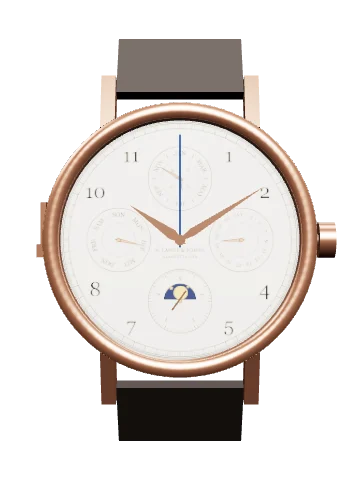
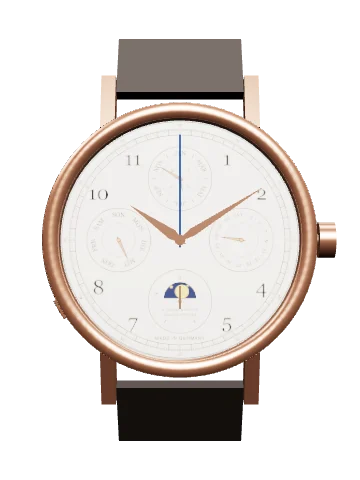
Front checks for the last three Workbench watches: Patek 3974 foot lettering; Gyrotourbillon 3 paired bars and Swiss Made; Lange Grand Complication black figures, minute figures outside the track, name in the lower dial, no running seconds

diff --git a/draw.js b/draw.js
@@ -286,9 +286,11 @@ function markers(w, g, skip) {
       break;
     }
     case 'railway': { // two fine circles with a tick for each minute and each fifth of a second, and upright numerals inside
-      s += C(R0 - 0.25, 0, 0, 't') + C(R0 - 1.25, 0, 0, 't');
-      for (let i = 0; i < 300; i++) s += rad(i * 1.2, R0 - (i % 25 ? (i % 5 ? 0.75 : 1.25) : 1.25), R0 - 0.25, i % 5 ? 'hair' : 't');
-      const sz = R0 * 0.17; for (let h = 1; h <= 12; h++) if (!skip.has(h % 12)) { const p = P(h * 30, R0 - 3.7); s += T(h, p[0], p[1] + sz * 0.35, sz, 'tx nm'); }
+      const k0 = w.dial.railNums ? 1.15 : 0; // room outside the track for the five-minute figures, where a dial carries them
+      s += C(R0 - 0.25 - k0, 0, 0, 't') + C(R0 - 1.25 - k0, 0, 0, 't');
+      for (let i = 0; i < 300; i++) s += rad(i * 1.2, R0 - k0 - (i % 25 ? (i % 5 ? 0.75 : 1.25) : 1.25), R0 - 0.25 - k0, i % 5 ? 'hair' : 't');
+      if (k0) for (let m = 5; m <= 60; m += 5) s += T(m < 10 ? '0' + m : m, 0, 0, 0.78, 'tx rn' + (m % 15 ? '' : ' rq'), `style="font-family:Helvetica,Arial,sans-serif" transform="rotate(${m * 6}) translate(0,${f(-R0 + 0.92)})"`); // the quarters are printed red
+      const sz = R0 * 0.17; for (let h = 1; h <= 12; h++) if (!skip.has(h % 12)) { const p = P(h * 30, R0 - 3.7 - k0 * 0.6); s += T(h, p[0], p[1] + sz * 0.35, sz, 'tx nm'); }
       break;
     }
     case 'roman': {
@@ -352,16 +354,16 @@ function calSub(w, g, pos, role, o = {}) {
     for (let d = 1; d <= 31; d++) { const a = (d - 1) * 360 / 31; s += d % 2 ? lab(d, a, rs * 0.81, rs * 0.17) : (p => C(0.08, p[0], p[1], 'k'))(P(a, rs * 0.81, cx, cy)); }
     s += C(rs * 0.52, cx, cy, 'hair') + hand((now.getDate() - 1) * 360 / 31, rs * 0.68);
   } else if (role === 'moonsec') { // running seconds round the edge, the moon above the centre, and the scale of fifths for the flying seconds
-    for (let i = 0; i < 60; i++) s += rad(i * 6, rs - (i % 5 ? 0.4 : 0.75), rs - 0.12, 't', cx, cy);
-    [5, 1, 2, 3, 4].forEach((n, i) => { s += lab(n, i * 72, rs * 0.74, rs * 0.19); });
-    s += moon(rs * 0.5, cy - rs * 0.06);
+    [5, 1, 2, 3, 4].forEach((n, i) => { s += lab(n, i * 72, rs * 0.8, rs * 0.17); }); // the five jumps of the flying seconds; there is no running seconds track
+    s += moon(rs * 0.5, cy - rs * 0.1);
+    if (w.dial.subSign && !o.redact) w.dial.subSign.forEach((t, i) => { s += T(t.replace(/&/g, '&amp;'), cx, cy + rs * (0.3 + i * 0.16), rs * 0.115, 'tx cal', 'letter-spacing=".04em"'); }); // the maker's name, printed in this dial under the moon
     if (!o.noHands) s += `<g transform="translate(${cx},${cy})"><g data-hand="s" data-bps="${bps(w)}">${L(0, 0.8, 0, -rs * 0.86, 'hd')}</g></g>`;
   } else if (role === 'day24') {
     DAYS.forEach((t, i) => { s += lab(t, i * 360 / 7, rs * 0.79, rs * 0.2); });
     s += C(rs * 0.6, cx, cy, 'hair'); [[12, 0], [18, 90], [24, 180], [6, 270]].forEach(q => { s += lab(q[0], q[1], rs * 0.4, rs * 0.19); });
     s += hand((now.getHours() + now.getMinutes() / 60 - 12) * 15, rs * 0.42, 0.22) + hand(now.getDay() * 360 / 7, rs * 0.72);
   } else if (role === 'monthleap') {
-    MONTHS.forEach((t, i) => { s += i % 2 ? rad(i * 30, rs * 0.72, rs * 0.86, 't', cx, cy) : lab(t, i * 30, rs * 0.79, rs * 0.2); });
+    (w.dial.de ? ['JAN', 'FEB', 'MÄR', 'APR', 'MAI', 'JUN', 'JUL', 'AUG', 'SEP', 'OKT', 'NOV', 'DEZ'] : MONTHS).forEach((t, i) => { s += i % 2 ? rad(i * 30, rs * 0.72, rs * 0.86, 't', cx, cy) : lab(t, i * 30, rs * 0.79, rs * 0.2); });
     s += C(rs * 0.6, cx, cy, 'hair'); [1, 2, 3, 4].forEach(n => { s += lab(n, n * 90 - 45, rs * 0.38, rs * 0.19); });
     s += L(cx - rs * 0.6, cy, cx + rs * 0.6, cy, 'hair') + L(cx, cy - rs * 0.6, cx, cy + rs * 0.6, 'hair');
     const yc = (now.getFullYear() + 3) % 4; // 0, 1, 2 for the three ordinary years; 3 for the leap year, which is quarter "4"
@@ -438,6 +440,7 @@ function dtext(w, g, o) {
     else s += T(t.replace(/&/g, '&amp;'), 0, y, z, 'tx dl', 'letter-spacing=".06em"'); // an ampersand has to be written this way inside a drawing
     if (i === 1 && d.star && !o.redact) s += star(0, y - z * 1.9, 0.75);
   });
+  if (d.foot && !o.redact) s += T(d.foot, 0, d.footY ? R0 * d.footY : R0 - 0.1, R0 * 0.04, 'tx dl', 'style="font-family:Helvetica,Arial,sans-serif" letter-spacing=".08em"'); // the small lettering at the very foot of the dial
   return s;
 }
 
@@ -472,10 +475,10 @@ function gyro3(w, g, o) {
   /* time: a ring flecked like a night sky round a centre of meteorite */
   s += C(tr, tx, -ty, 'p g3-rim') + C(tr - 0.3, tx, -ty, 'tn g3-blue') + flecks(tx, -ty, 6.1, tr - 0.9, 70) + C(tr - 0.65, tx, -ty, 't g3-wt');
   for (let i = 0; i < 60; i++) s += rad(i * 6, tr - 0.95, tr - 0.65, 'hair g3-wt', tx, -ty);
-  for (let h = 0; h < 12; h++) { const b = dx => `<rect class="p g3-gold" x="${f(dx - 0.2)}" y="${f(-tr + 1.35)}" width="0.4" height="1.9" transform="translate(${tx},${-ty}) rotate(${h * 30})"/>`; s += h ? b(0) : b(-0.36) + b(0.36); }
+  for (let h = 0; h < 12; h++) { const b = dx => `<rect class="p g3-gold" x="${f(dx - 0.2)}" y="${f(-tr + 1.35)}" width="0.4" height="1.9" transform="translate(${tx},${-ty}) rotate(${h * 30})"/>`; s += h % 3 ? b(0) : b(-0.36) + b(0.36); } // a pair of bars at each quarter
   s += C(6.1, tx, -ty, 'tn g3-met');
   [[-5.2, -1.6, 4.6, 3.2], [-4.6, 2.4, 5.4, -0.4], [-3.4, -4.4, 2.6, 4.6], [-1.2, -5.6, 5.2, 0.8], [-5.6, 0.6, -0.6, 5.6], [0.8, -5.8, 3.8, 4.2]].forEach(q => { s += L(tx + q[0], -ty + q[1], tx + q[2], -ty + q[3], 'hair g3-streak'); });
-  if (!o.redact) s += T('JAEGER-LECOULTRE', tx, -ty - 2.2, 0.72, 'tx g3-txt', 'letter-spacing=".04em"');
+  if (!o.redact) s += T('JAEGER-LECOULTRE', tx, -ty - 2.2, 0.72, 'tx g3-txt', 'letter-spacing=".04em"') + T('SWISS MADE', tx, -ty + tr - 1.25, 0.36, 'tx g3-txt', 'letter-spacing=".06em"');
   return s;
 }
 const handsAt = (w, g) => w.dial.handsAt ? `<g transform="translate(${w.dial.handsAt[0]},${-w.dial.handsAt[1]}) scale(${w.dial.handsAt[2]})">${hands(w, g)}</g>` : hands(w, g); // a watch whose time dial is off centre and small
@@ -828,10 +831,11 @@ function face(w, real) {
   const ap = real && !w.dial.dark ? '.t.dk2,.hair.dk2{stroke:#ecece8}text.dk2{fill:#ecece8}.ap{fill:#a7a8a4}.dk{fill:#131313;stroke:#2b2b2b}.dkt{fill:#f1efe7}.dks{stroke:#f1efe7}' : ''; // applied steel bars on a pale dial
   const wg = real && (w.dial.goldNums || w.dial.gilt) ? '.nm,.wg{fill:#c8ad74}.wg{stroke:#4a3c16;stroke-width:.05}' : ''; // applied gilt figures and emblem
   const blue = real ? (w.dial.blue ? `.db{fill:${w.dial.blue}}` : '') + '.rd5{stroke:#c51f10;stroke-width:.32}' : ''; // a coloured dial, and red marks
+  const ink = real && w.dial.inkNums ? '.nm,.cal,.rn{fill:#12151c}.rq{fill:#b3261a}' : ''; // black figures on white enamel, with the quarters in red
   const sf = real && w.dial.subFills ? 'svg{--so:1;' + Object.entries(w.dial.subFills).map(q => `--sf${q[0]}:${q[1][0]}`).join(';') + '}' + Object.entries(w.dial.subFills).filter(q => q[1][1]).map(q => `.sk${q[0]}{stroke:#ecece8}.sn${q[0]}{fill:#ecece8}`).join('') : ''; // each register's colour, and pale marks on the dark ones
   const pinkHands = real && w.dial.goldHands ? '.hc{fill:#cf9a78;stroke:#5a3b2a}.mw{fill:#1b2a55;stroke:#5a3b2a;stroke-width:.08}.mn{fill:#e3c060;stroke:none}' : '';
   const g3 = real && w.dial.custom === 'gyro3' ? '.g3-base{fill:#050506;stroke:none}.g3-met{fill:#5d5f63;stroke:#2f3033;stroke-width:.08}.g3-streak{stroke:#9a9c9f;stroke-width:.07}.g3-rim{fill:#c98d6b;stroke:#5a3b2a;stroke-width:.06}.g3-hole{fill:#09090a}.g3-blue{fill:#0a1340;stroke:#c98d6b;stroke-width:.06}.g3-white{fill:#f2f0e9;stroke:#8a8a86;stroke-width:.05}.g3-ink{stroke:#1a1a1a}.g3-inkf{fill:#1a1a1a;font-family:Helvetica,Arial,sans-serif}.g3-gold{fill:#dba886;stroke:#5a3b2a;stroke-width:.04}.g3-star{fill:#d5dcff}.g3-day{fill:#e3e1da;stroke:none}.g3-steel{fill:#b9bbbd;stroke:#4a4c4f;stroke-width:.07}.g3-screw{fill:#2a55a8;stroke:#0d1f45;stroke-width:.06}.g3-teeth{stroke:#c9cbcd;stroke-width:.09}.g3-sun{fill:#dba886;stroke:none}.g3-ray{stroke:#b98a64;stroke-width:.06}.g3-wt{stroke:#eef0ff}.g3-txt{fill:#e6e6e6}' : '';
-  const s = `<style>${real ? (w.dial.dark ? REAL : REAL_LIGHT) : TECH}${mixed}${gold}${gilt}${ap}${wg}${blue}${pinkHands}${g3}${sf}</style><circle r="${R}" fill="${real ? '#b5b5af' : '#EDE6D8'}"/><g class="bzd">${bezel(w, g)}</g>` + dial(w, g, { noHands: true });
+  const s = `<style>${real ? (w.dial.dark ? REAL : REAL_LIGHT) : TECH}${mixed}${gold}${gilt}${ap}${wg}${blue}${pinkHands}${ink}${g3}${sf}</style><circle r="${R}" fill="${real ? '#b5b5af' : '#EDE6D8'}"/><g class="bzd">${bezel(w, g)}</g>` + dial(w, g, { noHands: true });
   // The dial is drawn once as a picture, so the date window is filled here with today's date; on the plates it is filled live.
   const today = new Date(), DAYS3 = ['SUN', 'MON', 'TUE', 'WED', 'THU', 'FRI', 'SAT'];
   const dated = s.replace(new RegExp('(data-date=""[^>]*>)', 'g'), `$1${today.getDate()}`).replace(new RegExp('(data-daydate=""[^>]*>)', 'g'), `$1${DAYS3[today.getDay()]} ${today.getDate()}`);

diff --git a/workbench/watches/lange-grand-complication.js b/workbench/watches/lange-grand-complication.js
@@ -16,7 +16,7 @@ export default {
   plate: {
     id: 'langegc', brand: 'A. Lange & Söhne', model: 'Grand Complication', ref: '-', year: '2013', span: '2013', kind: 'Grand complication',
     c: { shape: 'round', d: 50, t: [20.3, 'v'], lug: [24, 'n'] },
-    bezel: { type: 'plain', w: 3.0 }, dial: { dark: false, goldHands: true, markers: 'railway', subs: [[12, 'monthleap'], [3, 'date31'], [6, 'moonsec'], [9, 'dayde']], text: ['A. LANGE & SÖHNE', 'GLASHÜTTE I/SA'], textScale: 0.42, textY: -0.1 },
+    bezel: { type: 'plain', w: 3.0 }, dial: { dark: false, goldHands: true, inkNums: true, railNums: true, de: true, markers: 'railway', subs: [[12, 'monthleap'], [3, 'date31'], [6, 'moonsec'], [9, 'dayde']], text: [], subSign: ['A. LANGE & SÖHNE', 'GLASHÜTTE I/SA'], foot: 'MADE IN GERMANY', footY: 0.845 },
     hands: 'leaf', sec: 'sub', chrono: true, crown: { pos: 3 }, strap: 'leather',
     mv: { cal: 'L1902', type: 'manual', vph: 18000, wind: 'Manual', note: 'Grand complication. A general schematic, not this calibre’s layout.' },
     back: { type: 'snap', note: 'Shown plain; not verified.' }, specs: [], notes: []
@@ -26,7 +26,7 @@ export default {
     type: 'procedural',
     builder: 'round-chronograph',
     note: 'A partial model. The case and dial are built from published dimensions and a photograph of the dial. The movement, calibre L1902, has 876 parts and no published drawing. What one photograph of its back shows is traced from that photograph: the balance, two column wheels, a winding wheel, the bridges with their jewels and screws, three gold wheels that show beneath them, and some of the levers. Everything else is left out so that nothing is invented. Case, lugs and bezel are simplified. Not a factory model or scan.',
-    params: { thickness: 20.3, lugToLug: 60, lugWidth: 24, movementDiameter: 40, beatsPerHour: 18000, calibre: 'L1902', chrono: false, subSeconds: 6, chronoCentre: true, chronoHand: 'blue', slide: true, dustCover: false, metal: 'rose', hands: 'dauphine', plate: 'steel', bezelInsert: false, crownR: 3.3, dome: 3.0, crystalOpacity: 0.06 }
+    params: { thickness: 20.3, lugToLug: 60, lugWidth: 24, movementDiameter: 40, beatsPerHour: 18000, calibre: 'L1902', chrono: false, subSeconds: 6, chronoCentre: true, parkSeconds: true, chronoHand: 'blue', slide: true, dustCover: false, metal: 'rose', hands: 'dauphine', plate: 'steel', bezelInsert: false, crownR: 3.3, dome: 3.0, crystalOpacity: 0.06 }
   },
   images: [],
 
@@ -68,13 +68,13 @@ export default {
       fn: 'Frames and retains the crystal.', material: 'Pink gold',
       significance: '', related: ['crystal', 'case'] },
     { id: 'dial', name: 'Dial and calendar', group: 'Exterior', status: 'D', anchor: [-11, 0, 2.4], face: 1,
-      beginner: 'A white dial with four small dials: the month at the top, the date on the right, the day on the left, and at the bottom the moon with the running seconds.',
-      horologist: 'Month and leap-year cycle at 12, date at 3, moon phase with running seconds and the scale for the flying seconds at 6, day at 9, in German. Railway minute track. The drawing is simplified, and its calendar hands and moon are set once, to the moment the page was opened.',
+      beginner: 'A white dial with four small dials: the month at the top, the date on the right, the day on the left, and at the bottom the moon, with the hand of the flying seconds.',
+      horologist: 'Month and leap-year cycle at 12, date at 3, the moon with the five-step scale of the flying seconds at 6, and the day at 9, all in German. The figures are black on white enamel, inside a railway track with the five-minute figures outside it and the quarters in red. The maker’s name is printed in the lower dial under the moon, and MADE IN GERMANY at the foot. Read from SJX’s photograph of the dial. On the real watch the top dial sets out all 48 months of the four-year cycle in rings and doubles as the chronograph’s minute counter, and the 3, 6 and 9 show as part figures behind their dials; the model shows twelve months and leaves those figures out. No running seconds hand could be confirmed, so none is shown. The drawing is simplified, and its calendar hands and moon are set once, to the moment the page was opened.',
       fn: 'Displays the time, the calendar, the moon and the chronograph.', material: 'Enamel, as reported',
       significance: '', related: ['hands', 'calendar-works', 'chrono-works'] },
     { id: 'hands', name: 'Hands', group: 'Exterior', status: 'E', anchor: [3, 10, 3.2], face: 1,
       beginner: 'Gold hour and minute hands, a blue stopwatch hand that rests at twelve, and a small seconds hand at the bottom.',
-      horologist: 'Pink gold hour and minute hands and a blued chronograph seconds hand. The real watch has a second, split-seconds hand beneath it, and a flying seconds hand at 6; neither is modelled. The running seconds at 6 moves in the model.',
+      horologist: 'Pink gold hour and minute hands and a blued chronograph seconds hand. The real watch has a second, split-seconds hand beneath it, and a flying seconds hand at 6; neither is modelled. The hand at 6 stands for the flying seconds and is shown at rest.',
       fn: 'Indicate the time and elapsed time.', material: 'Pink gold and blued steel',
       significance: '', related: ['dial', 'chrono-works'] },
     { id: 'case', name: 'Case and lugs', group: 'Exterior', status: 'D', anchor: [-21, 24, 0], face: 0,

diff --git a/workbench/watches/patek-3974.js b/workbench/watches/patek-3974.js
@@ -15,7 +15,7 @@ export default {
   plate: {
     id: 'patek3974', brand: 'Patek Philippe', model: 'Ref. 3974', ref: '3974', year: '1989', span: '1989 – c. 2000', kind: 'Minute repeater, perpetual calendar',
     c: { shape: 'round', d: 36, t: [12, 'n'], lug: [19, 'n'] },
-    bezel: { type: 'plain', w: 2.6 }, dial: { dark: true, gold: true, markers: 'breguet', subs: [[3, 'monthleap'], [6, 'datemoon'], [9, 'day24']], text: ['PATEK PHILIPPE', 'GENEVE'], textScale: 0.6, textY: 0.5 },
+    bezel: { type: 'plain', w: 2.6 }, dial: { dark: true, gold: true, markers: 'breguet', subs: [[3, 'monthleap'], [6, 'datemoon'], [9, 'day24']], text: ['PATEK PHILIPPE', 'GENEVE'], textScale: 0.6, textY: 0.5, foot: 'σ SWISS σ' },
     hands: 'leaf', sec: 'none', crown: { pos: 3, small: true }, strap: 'leather',
     mv: { cal: 'R 27 Q', type: 'micro', vph: 21600, wind: 'Automatic, micro-rotor', note: 'Minute repeater and perpetual calendar. A general schematic, not this calibre’s layout.' },
     back: { type: 'snap', note: 'Shown plain; not verified.' }, specs: [], notes: []
@@ -74,7 +74,7 @@ export default {
       significance: '', related: ['crystal', 'case'] },
     { id: 'dial', name: 'Dial and calendar', group: 'Exterior', status: 'D', anchor: [-8, -1, 2.4], face: 1,
       beginner: 'A black dial with gold numerals and three small dials: the day on the left, the month on the right, and the date with the moon at the bottom.',
-      horologist: 'Day and 24-hour hand at 9, month and leap-year cycle at 3, date and moon phase at 6. Applied Breguet numerals where there is room and dots elsewhere. The drawing is simplified, and its calendar hands and moon are set once, to the moment the page was opened.',
+      horologist: 'Day and 24-hour hand at 9, month and leap-year cycle at 3, date and moon phase at 6. Applied Breguet numerals where there is room and dots elsewhere, as on the black-dial version; the commoner silvered dial carries applied gold batons instead. PATEK PHILIPPE and GENEVE, without an accent, are printed above the centre, and σ SWISS σ at the foot. In the day dial the names run in English round a 24-hour scale; the month dial shows six of the twelve names round the four-year cycle; the date dial shows the odd dates round the moon. The drawing is simplified, and its calendar hands and moon are set once, to the moment the page was opened.',
       fn: 'Displays the time and the full calendar.', material: 'Metal dial, applied gold numerals',
       significance: 'Four years of calendar are read from three small dials.', related: ['hands', 'calendar-works'] },
     { id: 'hands', name: 'Hands', group: 'Exterior', status: 'E', anchor: [3, 9, 3.1], face: 1,

diff --git a/workbench/watches/jlc-gyrotourbillon-3.js b/workbench/watches/jlc-gyrotourbillon-3.js
@@ -38,7 +38,7 @@ export default {
     ['Movement', 'Calibre 176, hand-wound, two barrels', 'D'],
     ['Parts', '592', 'D'],
     ['Power reserve', '45 hours', 'D'],
-    ['Frequency', '28,800 A/h (4 Hz)', 'D'],
+    ['Frequency', '28,800 A/h (4 Hz) according to SJX Watches; two other sources give 21,600', 'E'],
     ['Tourbillon', 'Outer cage once a minute; inner cage two and a half times a minute, the opposite way', 'D'],
     ['Balance', 'Blued gold, with a blued spherical balance spring', 'D'],
     ['Chronograph', 'Column wheel and vertical clutch; minutes on two jumping discs', 'D'],
@@ -75,7 +75,7 @@ export default {
       significance: '', related: ['crystal', 'case'] },
     { id: 'dial', name: 'The three dials', group: 'Exterior', status: 'D', anchor: [-10.5, 1.5, 3.2], face: 1,
       beginner: 'Three separate dials: the time at the top, the stopwatch on the left, and day or night on the right.',
-      horologist: 'Time dial of meteorite ringed with aventurine glass; chronograph dial of aventurine ringed with white fired enamel, with a gold-framed window for the digital minutes, shown on two jumping discs; day and night disc, hand-guilloched, with sun and moon of solid pink gold. The dials overlap, the time dial uppermost. Their places and sizes are measured from photographs. Their artwork is simplified, the minute window always reads 00, and the day and night disc is set once, when the page is opened.',
+      horologist: 'Time dial of meteorite ringed with aventurine glass; chronograph dial of aventurine ringed with white fired enamel, with a gold-framed window for the digital minutes, shown on two jumping discs; day and night disc, hand-guilloched, with sun and moon of solid pink gold. The dials overlap, the time dial uppermost. The time dial carries applied pink-gold bars, paired at the quarters, with the maker’s name on the meteorite and SWISS MADE at the foot of its ring. Their places and sizes are measured from photographs. Their artwork is simplified, the minute window always reads 00, and the day and night disc is set once, when the page is opened.',
       fn: 'Display the time, the chronograph and day or night.', material: 'Meteorite, aventurine glass, enamel',
       significance: 'Splitting the display into small dials is what leaves room to show the tourbillon.', related: ['hands', 'chrono-works', 'gyrotourbillon'] },
     { id: 'hands', name: 'Hands', group: 'Exterior', status: 'E', anchor: [3, 13, 4.2], face: 1,

diff --git a/workbench/model.js b/workbench/model.js
@@ -947,7 +947,7 @@ export function buildProcedural(watch, face, tex) {
     balSpin.rotation.z = th; palRock.rotation.z = 0.17 * Math.tanh(7 * ph); if (M.extraAnim) M.extraAnim(tv);
     for (let i = 0; i <= HN; i++) { const t = i / HN, w = 1 - t, a = t * TAU * 9 + th * w, r = (0.38 + t * 1.75) * (1 - 0.035 * th * w * t * 4); hsPos[i * 3] = r * Math.cos(a); hsPos[i * 3 + 1] = r * Math.sin(a); hsPos[i * 3 + 2] = 0; }
     hsGeo.attributes.position.needsUpdate = true; hsGeo.computeBoundingSphere();
-    hSec.rotation.z = -(beats * TAU / (60 * beatHz));
+    hSec.rotation.z = P.parkSeconds ? 0 : -(beats * TAU / (60 * beatHz)); // a hand that only runs with a mechanism the model does not have is left at rest
     const s = now.getSeconds() + now.getMilliseconds() / 1000, m = now.getMinutes() + s / 60, h = (now.getHours() % 12) + m / 60;
     hMin.rotation.z = -m * TAU / 60; hHour.rotation.z = -h * TAU / 12; if (chrono) hChr.rotation.z = 0;
   }
